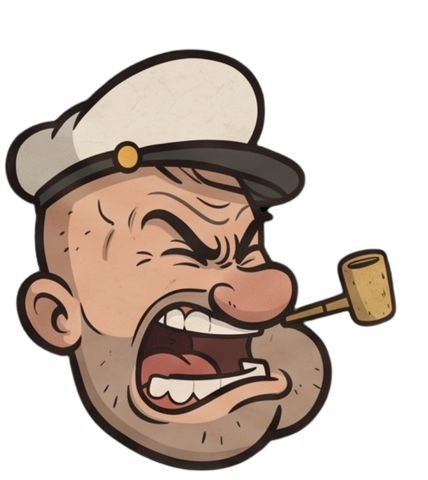
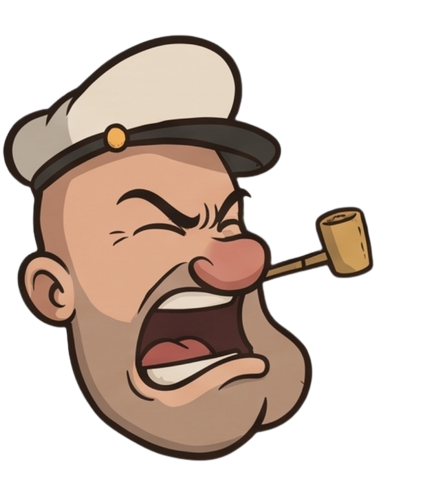
v1.66: yeni ağıran yüzler, tepki vurulmadan önceki can yüzüyle
Claude-Session: https://claude.ai/code/session_01LDwZLyZhG3Us8fbnE3d5s4

diff --git a/www/index.html b/www/index.html
@@ -38,7 +38,7 @@ canvas{cursor:crosshair}.etiket,.ipucu{pointer-events:none}
 <link rel="stylesheet" href="https://fonts.googleapis.com/css2?family=Bangers&family=Nunito:wght@700;800&display=swap">
 
 <canvas id="c"></canvas>
-<div class="etiket"><b>POPEYE FIGHTER</b>v1.65</div>
+<div class="etiket"><b>POPEYE FIGHTER</b>v1.66</div>
 <div class="ipucu">← → yürü &nbsp; ↑ zıpla &nbsp; J yumruk &nbsp; K tekme &nbsp; ↓ çömel &nbsp; <b>sağ/sol yarıya tık tık: kombo &nbsp; sürükle: sağ yarı ön kol, sol yarı arka kol</b></div>
 <div class="tus" id="asa">▼</div><div class="tus" id="sol">◀</div><div class="tus" id="sag">▶</div><div class="tus" id="zipla">▲</div>
 <div class="mini" id="sens">🎮 SENSÖR: KAPALI</div><div class="mini" id="sifir">⟲ Dengele</div>
@@ -71,10 +71,8 @@ ADLAR.forEach(a=>{
 });
 const YUZ=[];                      // ana yüz: 0 = tam can ... 9 = çok az can, 10 = ölü
 for(let i=0;i<11;i++){const im=new Image();im.src='yuz/yuz'+i+'.png?v=41';YUZ.push(im)}
-const YUZH=[];                     // darbe tepkisi 1: 'pu' yüzü (0-9 can aralıkları)
-for(let i=0;i<10;i++){const im=new Image();im.src='yuz/yuzH'+i+'.png?v=41';YUZH.push(im)}
-const YUZA=[];                     // darbe tepkisi 2: ağıran yüz (0-9 can aralıkları, 10 = can 0)
-for(let i=0;i<11;i++){const im=new Image();im.src='yuz/yuzA'+i+'.png?v=41';YUZA.push(im)}
+const YUZA=[];                     // darbe tepkisi: ağıran yüz, vurulmadan ÖNCEKİ can aralığına göre (0-9)
+for(let i=0;i<10;i++){const im=new Image();im.src='yuz/yuzA'+i+'.png?v=42';YUZA.push(im)}
 function yuzNo(hp){return hp<=0?10:Math.min(9,Math.floor((100-hp)/10))}   // 100-91→0, 90-81→1 ... 10-1→9, 0→10
 
 // ---------- Ayarlar (parça birimi) ----------
@@ -1374,7 +1372,7 @@ function karakter(){
   ctx.save();ctx.translate(BON,0);bacak(N.l,N.k,N.a,false);ctx.restore();   // yakın bacak kalçanın önünde
   govdeUzayi(()=>{ ctx.scale(1.1,1.1);resim(R.govde,97.7,246.4); });      // gövde (%10 büyük) karnıyla kalçanın üstüne biner
   govdeUzayi(()=>{
-    ctx.save();ctx.translate(-8,-262);ctx.rotate(P.bas*D);ctx.translate(5/SC,0);{if(S.hp<(S._lh==null?S.hp:S._lh))S.agT0=S.t;S._lh=S.hp;const ph=S.t-(S.agT0==null?-9:S.agT0),lv=Math.min(9,Math.floor((100-Math.max(S.hp,1))/10));const fy=ph>=0&&ph<0.6?YUZA[S.hp<=0?10:lv]:YUZ[yuzNo(S.hp)];fy&&fy.complete&&fy.naturalWidth?ctx.drawImage(fy,-106.8,-213.8,228.7,256.6):ctx.drawImage(R.kafa,-85,-170,182,204)}ctx.restore();
+    ctx.save();ctx.translate(-8,-262);ctx.rotate(P.bas*D);ctx.translate(5/SC,0);{if(S._lh!=null&&S.hp<S._lh){S.agT0=S.t;S.agLv=Math.min(9,Math.floor((100-Math.max(S._lh,1))/10))}S._lh=S.hp;const ph=S.t-(S.agT0==null?-9:S.agT0);const fy=ph>=0&&ph<0.6&&YUZA[S.agLv]?YUZA[S.agLv]:YUZ[yuzNo(S.hp)];fy&&fy.complete&&fy.naturalWidth?ctx.drawImage(fy,-106.8,-213.8,228.7,256.6):ctx.drawImage(R.kafa,-85,-170,182,204)}ctx.restore();
     kol(-59,-149,P.aNu,P.aNr,'N',false,1.1);         // yakın kol (%10 büyük)
   });
   ctx.restore();
